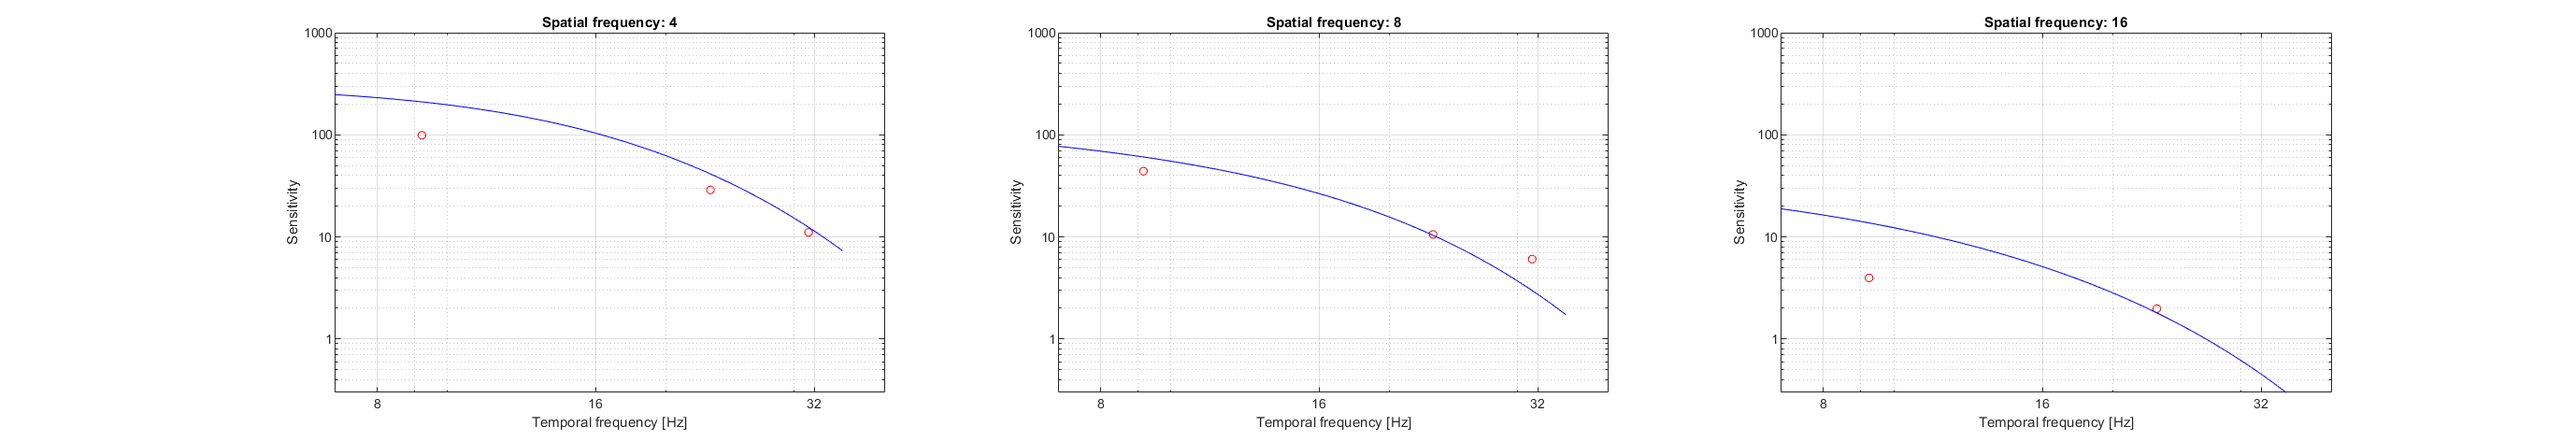
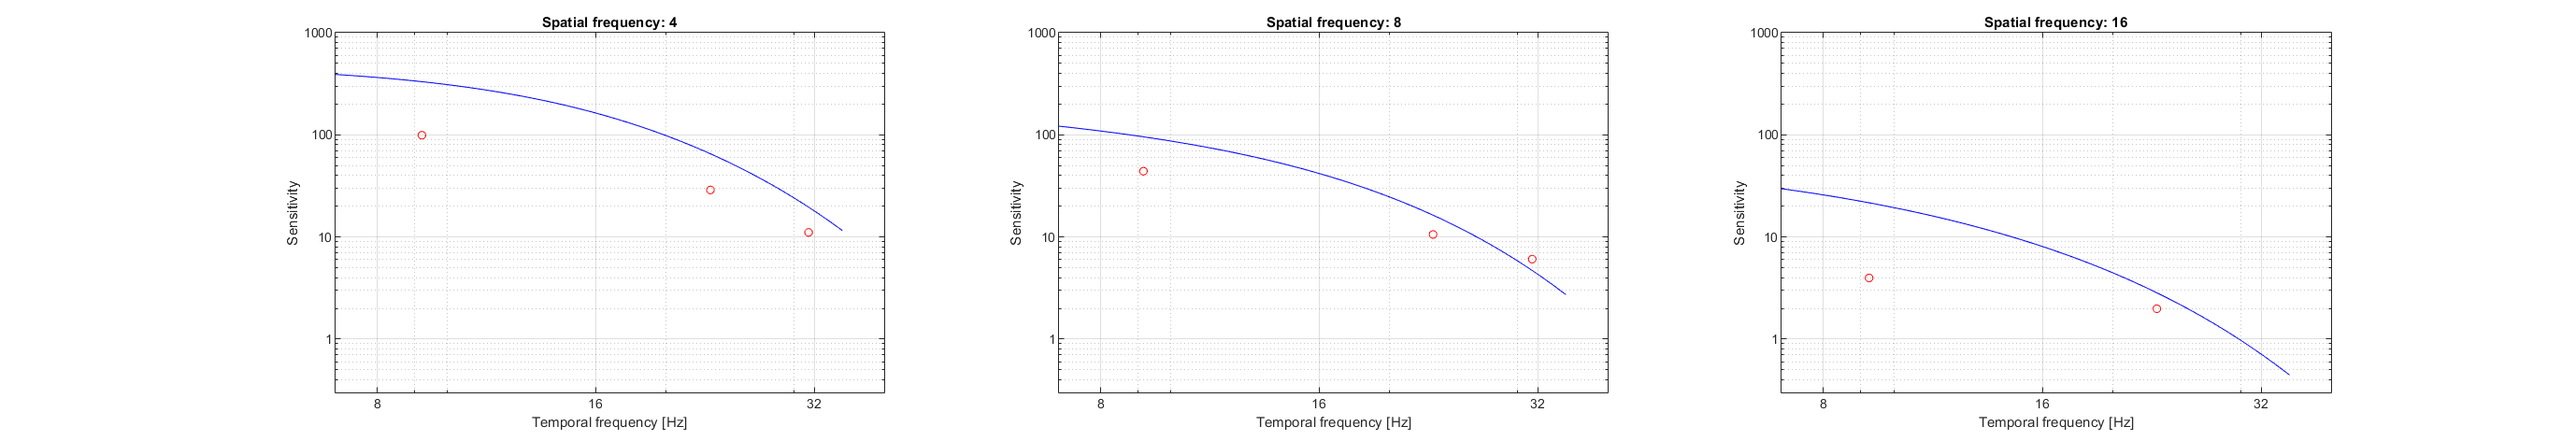
update virsu

diff --git a/share/st_temp_ecc/index.html b/share/st_temp_ecc/index.html
@@ -13,15 +13,15 @@ function detectLeftButton(evt) {
 
 <body>
 <h1>CSF model fit: st_temp_ecc</h1>
-<p>Report generated on 22-Oct-2021 16:55:06</p>
+<p>Report generated on 22-Oct-2021 17:13:12</p>
 <h2>Fitting error</h2>
 <TABLE>
-<tr><td rowspan="2">Dataset</td><td colspan="1">Fitting error</td><td colspan="1">Sensitivity adjustment</td></tr><tr><td>CSF from FovVideoVDP</td><td>CSF from FovVideoVDP</td></tr><tr><td>Average</td><td>1.17866 [dB]</td><td>N/A</td></tr><tr><td>modelfest</td><td>0.220334 [dB]</td><td>1</td></tr><tr><td>hdrvdp_csf</td><td>0.601172 [dB]</td><td>1.01334</td></tr><tr><td>laird2006</td><td>1.35035 [dB]</td><td>0.992015</td></tr><tr><td>virsu1979</td><td>3.16923 [dB]</td><td>0.998247</td></tr></TABLE>
+<tr><td rowspan="2">Dataset</td><td colspan="1">Fitting error</td><td colspan="1">Sensitivity adjustment</td></tr><tr><td>CSF from FovVideoVDP</td><td>CSF from FovVideoVDP</td></tr><tr><td>Average</td><td>10.8199 [dB]</td><td>N/A</td></tr><tr><td>modelfest</td><td>1.26835 [dB]</td><td>1</td></tr><tr><td>hdrvdp_csf</td><td>0.953681 [dB]</td><td>0.89546</td></tr><tr><td>laird2006</td><td>2.9722 [dB]</td><td>0.976916</td></tr><tr><td>virsu1979</td><td>3.86498 [dB]</td><td>0.945991</td></tr><tr><td>krajancich2021</td><td>40.8342 [dB]</td><td>1.2464</td></tr></TABLE>
 <h2>Model parameters</h2>
 <div class="params_frame">
 <div align="center">CSF from FovVideoVDP</div>
 <div style="white-space: pre-line;">
-	p.S_0 = 2.04708;
+	p.S_0 = 3.27384;
 </div>
 </div>
 <h2>Legend</h2>
@@ -44,6 +44,16 @@ function detectLeftButton(evt) {
 <h2 id="virsu1979"><a class="top_align_button" href="#virsu1979">&#8632;</a>Dataset: Visual resolution, contrast sensitivity, and the cortical magnification factor</h2>
 <div>Contrast sensitivity of central and peripheral vision as a function of spatial frequency and eccentricity<br/>
 <img src="fig_virsu1979_1.png"/>
+<br/></div>
+<h2 id="krajancich2021"><a class="top_align_button" href="#krajancich2021">&#8632;</a>Dataset: Eccentricity-dependent spatio-temporal flicker fusion</h2>
+<div>Critical fusion frequency at eccentricities<br/>
+<img src="fig_krajancich2021_1.png"/>
+<br/></div>
+<div>Critical fusion frequency at luminance levels<br/>
+<img src="fig_krajancich2021_2.png"/>
+<br/></div>
+<div>Critical fusion frequency for spatial frequencies<br/>
+<img src="fig_krajancich2021_3.png"/>
 <br/></div>
 </body>
 </html>
